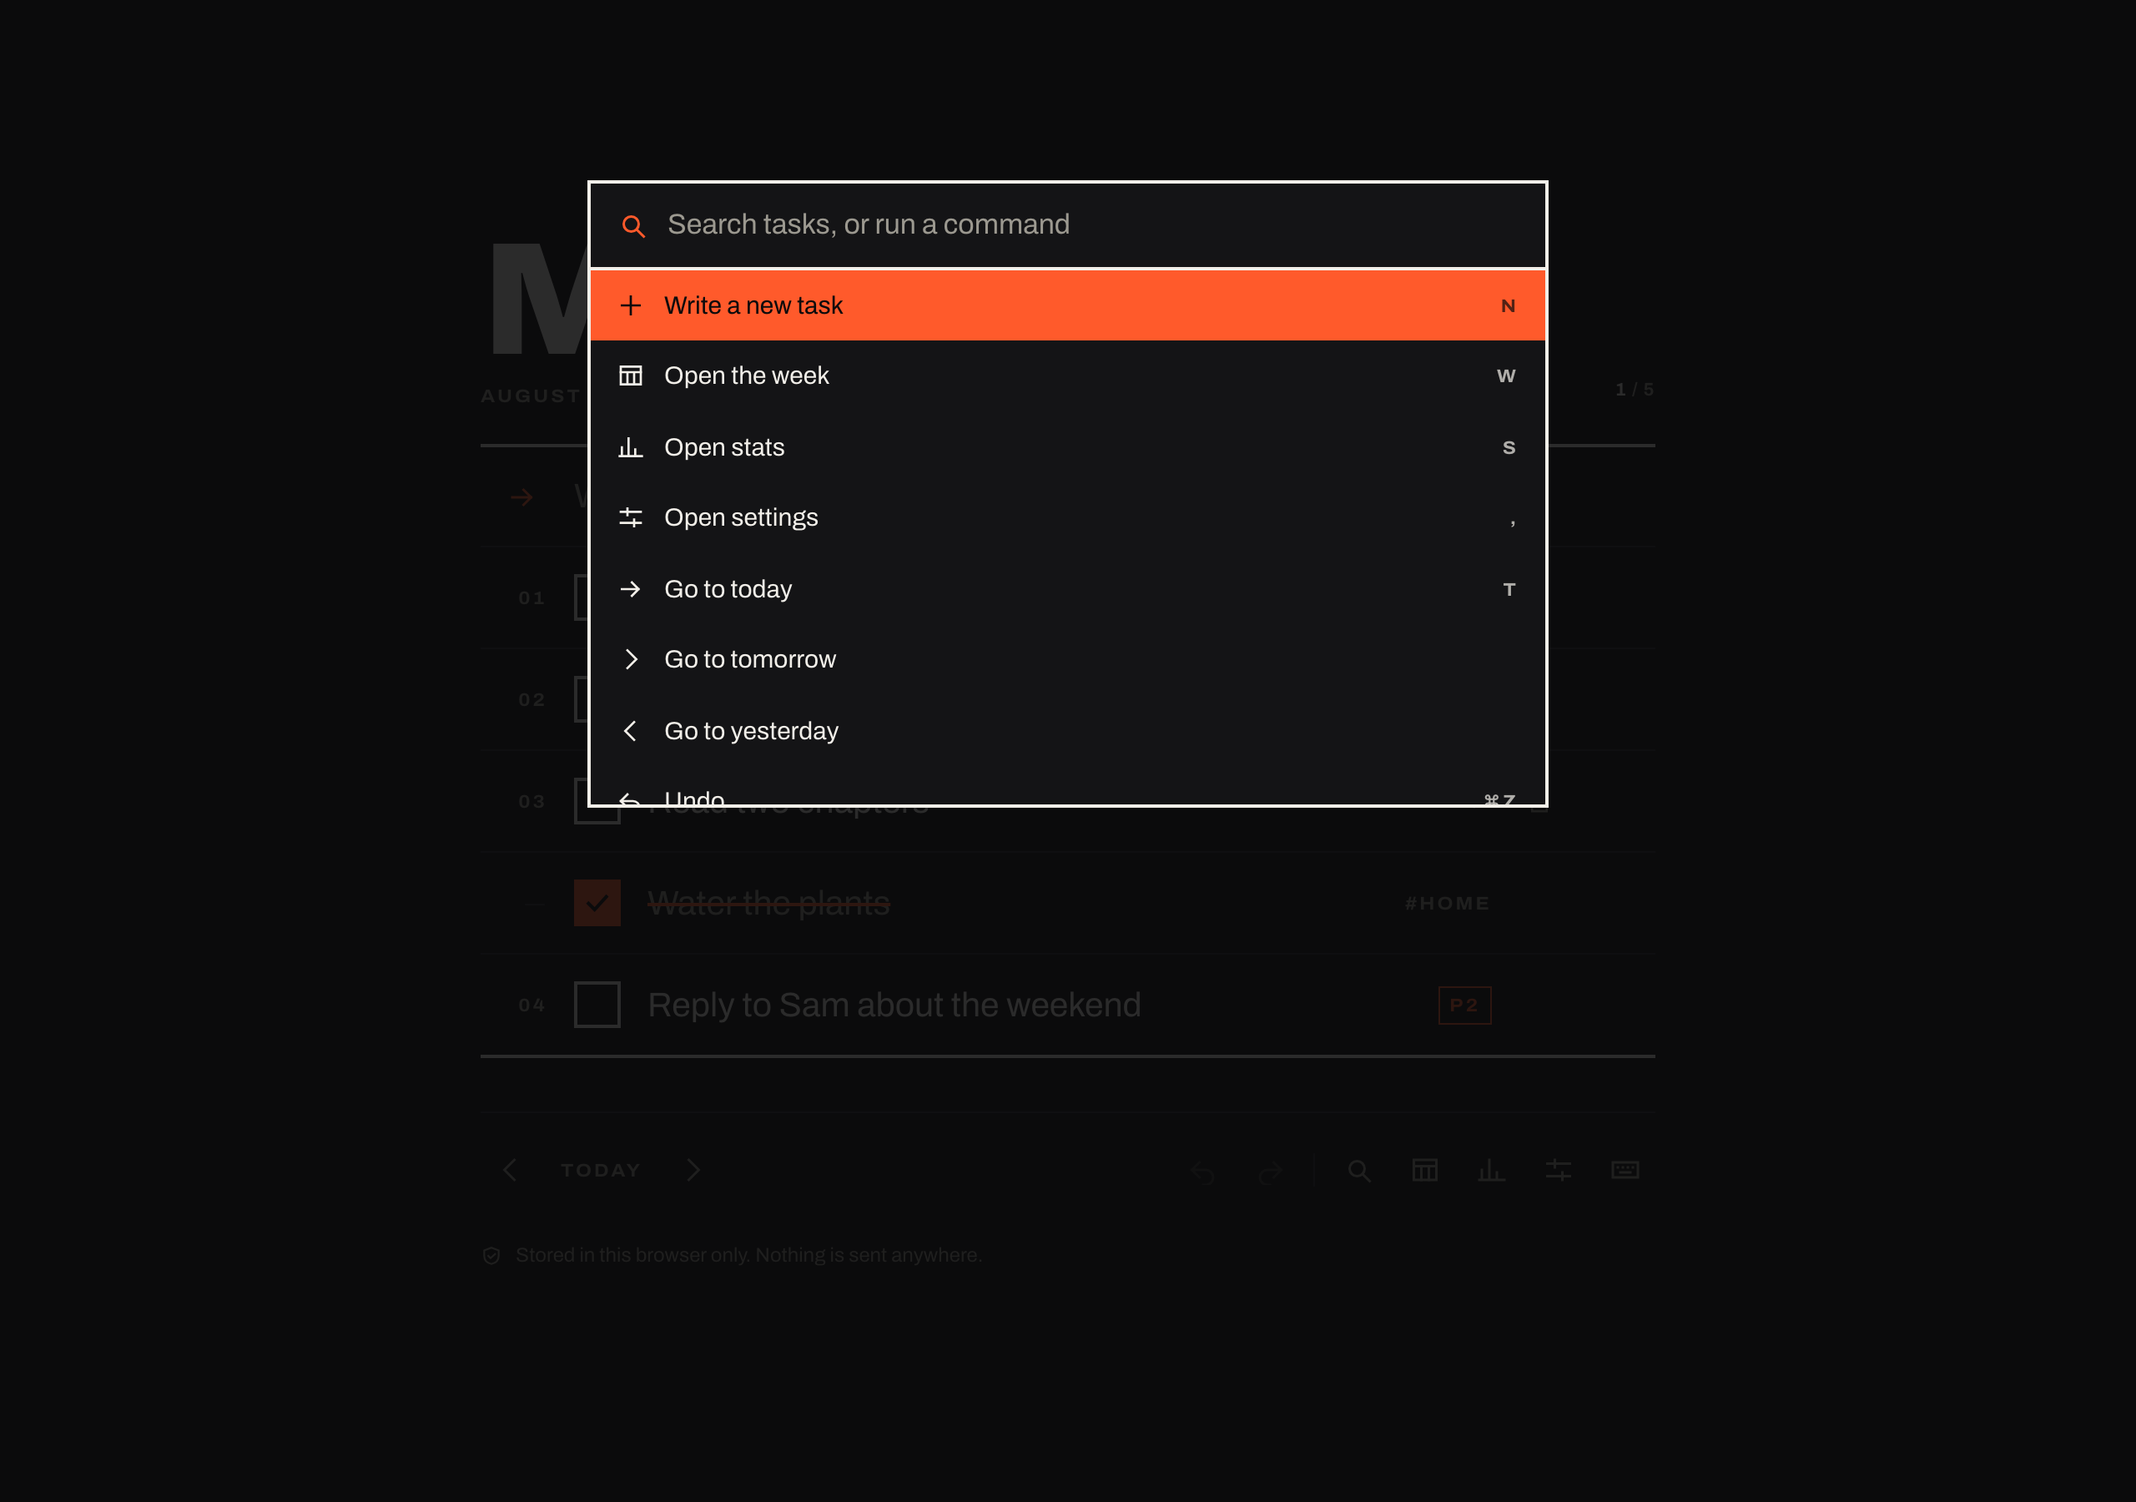
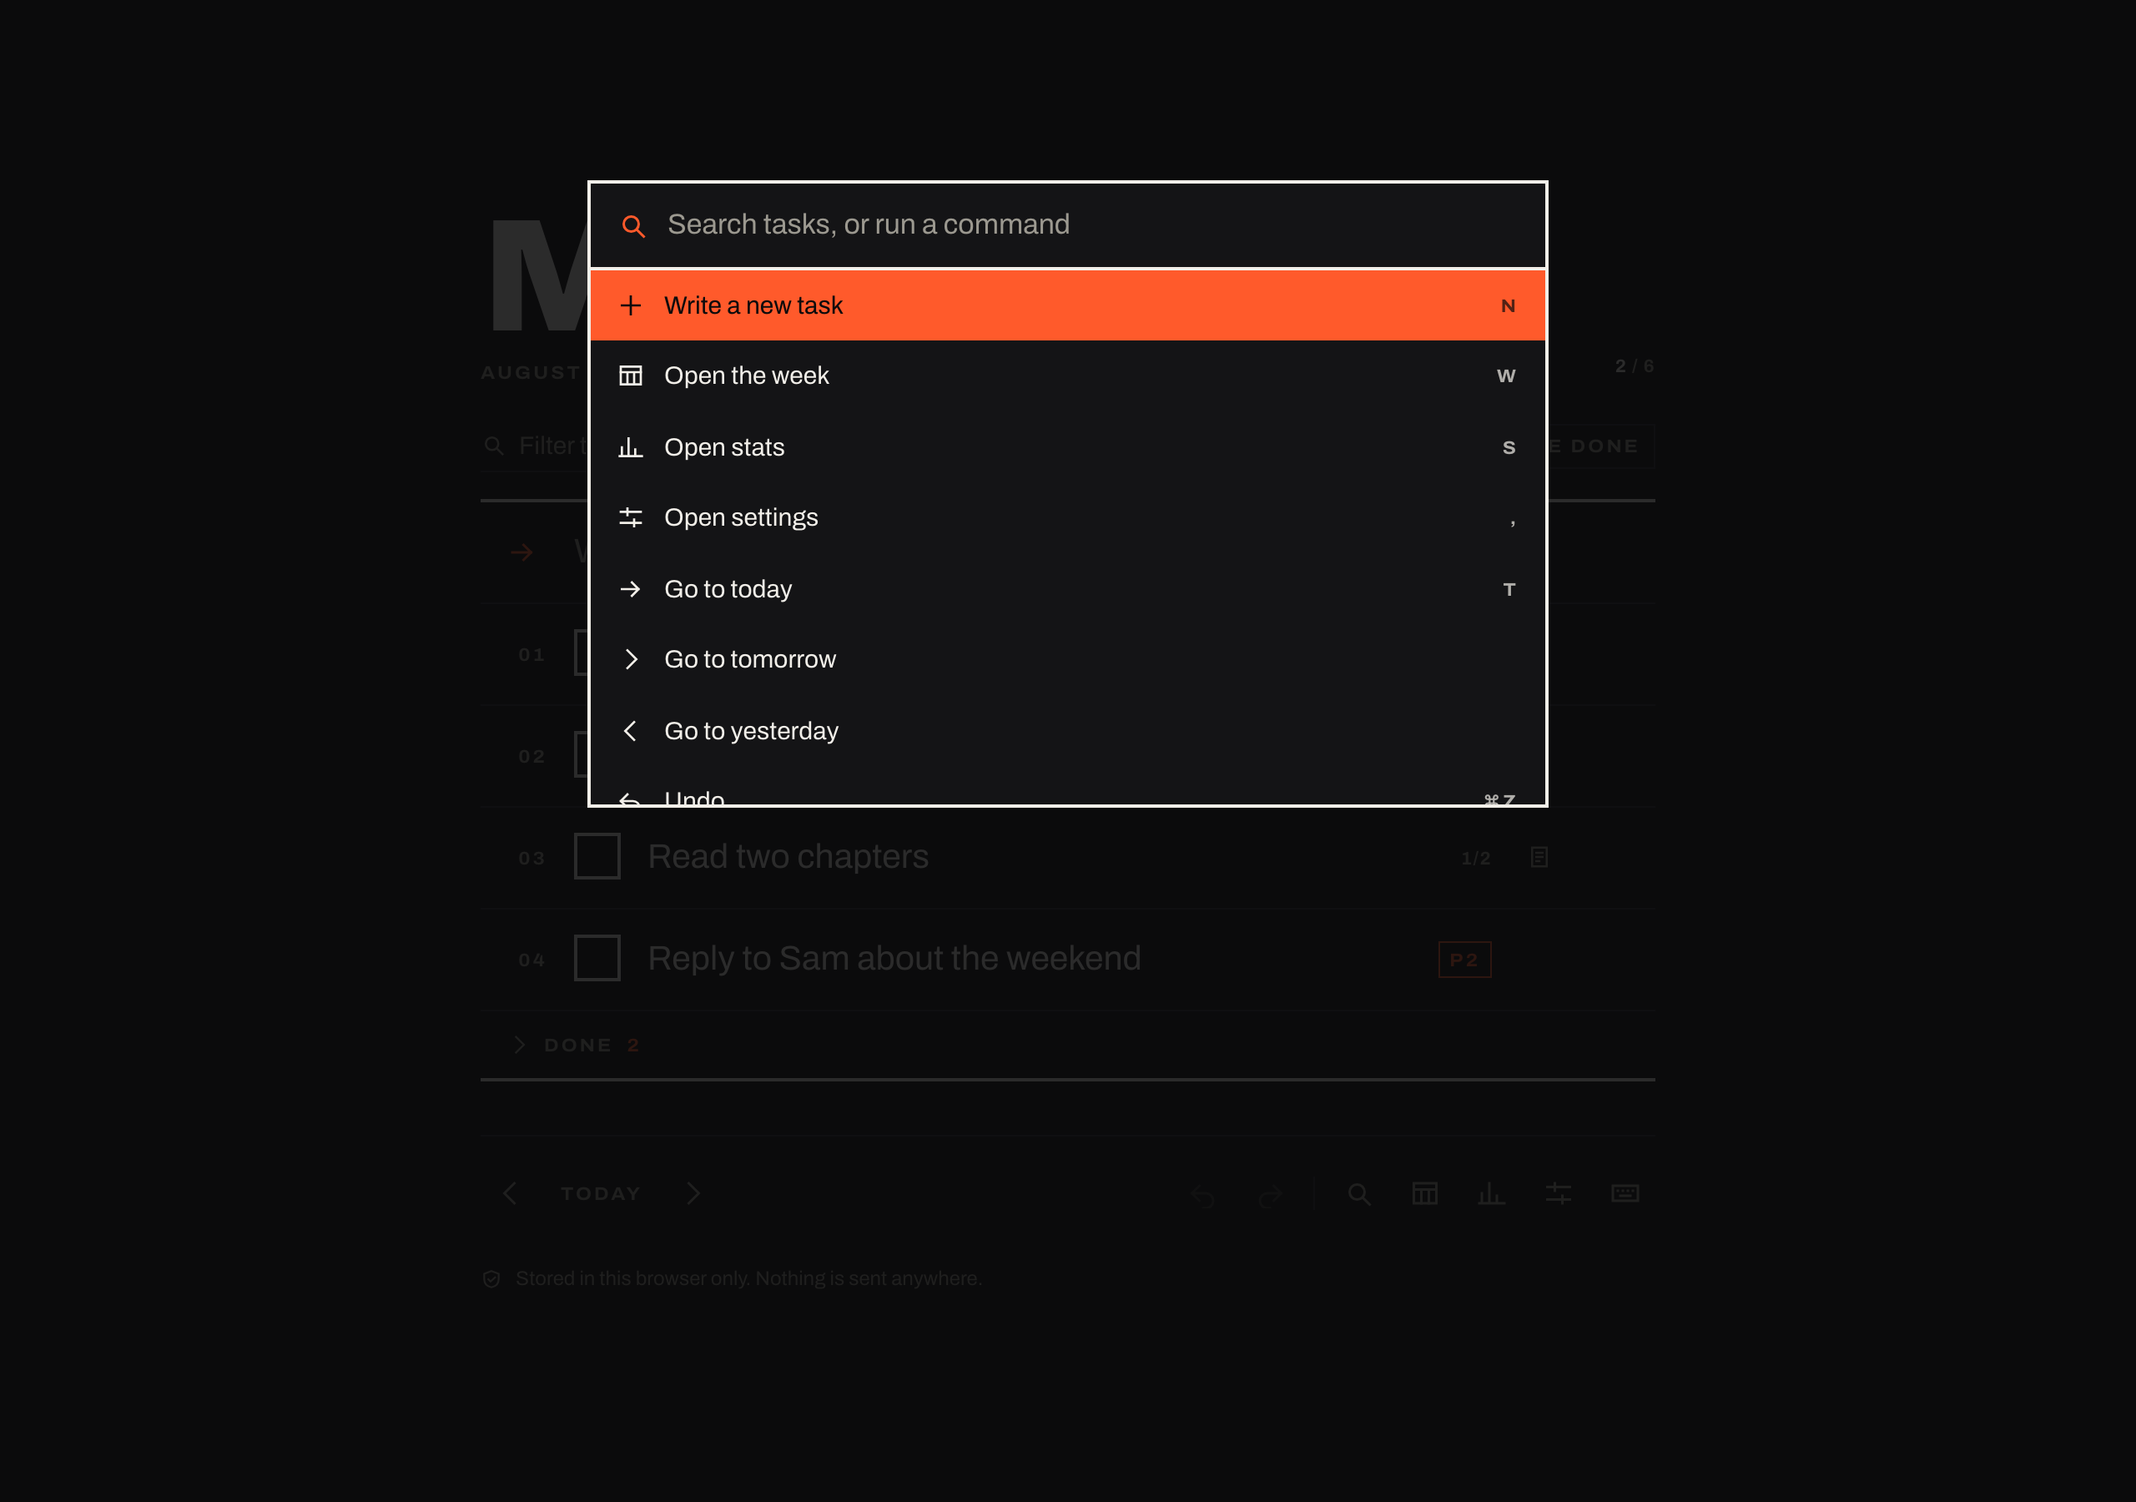
Completed tasks move to a Done drawer you can act on
A finished task leaves the list — the list is what is left to do, and a
day whose rows all sit there struck through does not read as finished.
It joins a Done drawer for that day, which opens itself once the day is
clear, and offers two ways out: put it back in the list, or delete the
record for good behind a confirmation.

The row lingers for the 420ms of the slat flip before it moves, or the
app's one authored moment would play on an element unmounting in the
same frame and completing something would read as the row vanishing.

Filters move below the date: they act on the board, and chrome above the
day put chrome above the subject.

Changed region(s): [[0.25, 0.56, 0.5312, 0.6844], [0.2188, 0.1244, 0.2812, 0.2489]]

diff --git a/src/features/today/TodayView.tsx b/src/features/today/TodayView.tsx
@@ -20,8 +20,13 @@ import { dayProgress, matchesFilters, tasksForDay, type Filters } from '../../do
 import { DayHeader } from './DayHeader'
 import { TaskRow } from './TaskRow'
 import { Capture, type CaptureHandle } from './Capture'
+import { FilterBar } from './FilterBar'
 import { CAPTURE_HINT_ID } from './hint'
 import { DayCleared, EmptyDay, FirstRun } from './EmptyStates'
+import { DoneDrawer } from './DoneDrawer'
+
+/** Matches the `flip` keyframe in `ui/tokens.css`. */
+const FLIP_MS = 420
 
 /**
  * The board. This is the app; everything else is an overlay over it.
@@ -34,11 +39,13 @@ export function TodayView({
   day,
   today,
   filters,
+  onFiltersChange,
   captureRef,
 }: {
   day: string
   today: string
   filters: Filters
+  onFiltersChange: (filters: Filters) => void
   captureRef: React.RefObject<CaptureHandle | null>
 }) {
   const state = useAppState()
@@ -53,16 +60,63 @@ export function TodayView({
   )
   const progress = useMemo(() => dayProgress(state, day), [state, day])
 
-  // Numbering runs over the open rows only, so completing one closes the gap
-  // instead of leaving a hole where a task used to be.
-  const positions = useMemo(() => {
-    const map = new Map<string, number>()
-    let next = 1
-    for (const task of visible) {
-      if (task.status !== 'done') map.set(task.id, next++)
-    }
-    return map
-  }, [visible])
+  // Completing a task takes it out of the list and into the drawer: the list is
+  // what is left to do, and a day whose rows are all still there, struck
+  // through, does not read as finished.
+  const open = useMemo(() => visible.filter((task) => task.status !== 'done'), [visible])
+  const done = useMemo(
+    () =>
+      visible
+        .filter((task) => task.status === 'done')
+        // Most recently finished first — that is the one you might undo.
+        .sort((a, b) => (b.completedAt ?? '').localeCompare(a.completedAt ?? '')),
+    [visible],
+  )
+
+  /**
+   * A completed row lingers in the list for exactly as long as the slat takes
+   * to turn over, then joins the drawer.
+   *
+   * Without this the flip — the one authored moment in the app — plays on an
+   * element that unmounts the same frame, so nobody ever sees it and completing
+   * a task reads as the row vanishing. Under `prefers-reduced-motion` there is
+   * no flip to wait for, and the delay would just feel like lag.
+   */
+  const [lingering, setLingering] = useState<ReadonlySet<string>>(new Set())
+  const previouslyOpen = useRef<Set<string>>(new Set())
+
+  useEffect(() => {
+    const openIds = new Set(open.map((task) => task.id))
+    const justCompleted = done
+      .filter((task) => previouslyOpen.current.has(task.id))
+      .map((task) => task.id)
+
+    previouslyOpen.current = openIds
+    if (justCompleted.length === 0) return
+
+    const linger = window.matchMedia('(prefers-reduced-motion: reduce)').matches ? 0 : FLIP_MS
+    setLingering((current) => new Set([...current, ...justCompleted]))
+
+    const timer = setTimeout(() => {
+      setLingering((current) => {
+        const next = new Set(current)
+        for (const id of justCompleted) next.delete(id)
+        return next
+      })
+    }, linger)
+
+    return () => clearTimeout(timer)
+  }, [open, done])
+
+  const listed = useMemo(
+    () =>
+      [...open, ...done.filter((task) => lingering.has(task.id))].sort((a, b) => a.order - b.order),
+    [open, done, lingering],
+  )
+
+  const drawered = useMemo(() => done.filter((task) => !lingering.has(task.id)), [done, lingering])
+
+  const positions = useMemo(() => new Map(open.map((task, index) => [task.id, index + 1])), [open])
 
   const sensors = useSensors(
     // A few pixels of slop so a click on a row never registers as a drag.
@@ -74,6 +128,8 @@ export function TodayView({
     setDragging(null)
     if (!over || active.id === over.id) return
 
+    // The index has to be taken against the whole day, not the open subset:
+    // `moveTask` positions against every task filed on that date.
     const toIndex = tasks.findIndex((task) => task.id === over.id)
     if (toIndex >= 0) {
       dispatch({ type: 'moveTask', id: String(active.id), toDay: day, toIndex })
@@ -92,6 +148,10 @@ export function TodayView({
     <section aria-label={`Tasks for ${day}`}>
       <DayHeader day={day} progress={progress} />
 
+      {/* Filters belong under the date, not above it: they act on the board, and
+          putting chrome above the day would put chrome above the subject. */}
+      <FilterBar filters={filters} onChange={onFiltersChange} taskCount={tasks.length} />
+
       <div className="border-y-2 border-rule-strong">
         {/* Capture opens the board: on a screen about one day, the first thing
             you meet is the way to say what the day is. */}
@@ -107,7 +167,7 @@ export function TodayView({
           </p>
         )}
 
-        {!progress.complete && visible.length > 0 && (
+        {listed.length > 0 && (
           <DndContext
             sensors={sensors}
             collisionDetection={closestCenter}
@@ -116,11 +176,11 @@ export function TodayView({
             onDragEnd={onDragEnd}
           >
             <SortableContext
-              items={visible.map((task) => task.id)}
+              items={listed.map((task) => task.id)}
               strategy={verticalListSortingStrategy}
             >
               <ul>
-                {visible.map((task) => (
+                {listed.map((task) => (
                   <TaskRow
                     key={task.id}
                     task={task}
@@ -145,6 +205,8 @@ export function TodayView({
             </DragOverlay>
           </DndContext>
         )}
+
+        <DoneDrawer tasks={drawered} today={today} complete={progress.complete} />
       </div>
 
       {/* The syntax lives at the foot of the board and only in the accessibility

diff --git a/src/features/today/DoneDrawer.tsx b/src/features/today/DoneDrawer.tsx
@@ -1,0 +1,132 @@
+import { useState } from 'react'
+import { useDispatch } from '../../store/context'
+import type { Task } from '../../domain/types'
+import { Icon } from '../../ui/Icon'
+import { TaskMeta } from './TaskMeta'
+
+/**
+ * What the day has already produced.
+ *
+ * Completing a task takes it out of the list — the list is what is left to do,
+ * and a finished day whose rows are all still sitting there struck through is
+ * not visibly finished. But taken out is not thrown away: everything done today
+ * collects here, in the order it was completed, and stays reachable.
+ *
+ * Two ways out, and they are deliberately different weights. **Put back**
+ * returns the task to the list, for the case where it was checked off too
+ * early or turned out not to be finished. **Delete** removes the record for
+ * good — it is the only destructive control on this screen, so it asks first
+ * rather than acting on a mis-tap next to Put back.
+ *
+ * The drawer opens itself when the day is complete: at that point what you did
+ * is the only content left, and hiding it behind a click would make the best
+ * moment of the day the emptiest screen.
+ */
+export function DoneDrawer({
+  tasks,
+  today,
+  complete,
+}: {
+  tasks: Task[]
+  today: string
+  complete: boolean
+}) {
+  const dispatch = useDispatch()
+  // `null` means "follow the day"; a boolean is the user overriding that.
+  const [override, setOverride] = useState<boolean | null>(null)
+  const [confirming, setConfirming] = useState<string | null>(null)
+
+  if (tasks.length === 0) return null
+
+  const open = override ?? complete
+
+  return (
+    <section aria-labelledby="done-heading" className="border-t border-rule">
+      <h2 id="done-heading">
+        <button
+          type="button"
+          aria-expanded={open}
+          onClick={() => {
+            setOverride(!open)
+            setConfirming(null)
+          }}
+          className="board-label flex w-full items-center gap-2 px-3 py-3 text-left text-ink-muted transition-colors hover:text-ink sm:px-4"
+        >
+          <span
+            aria-hidden="true"
+            className={`transition-transform duration-200 ${open ? 'rotate-0' : '-rotate-90'}`}
+          >
+            <Icon name="chevronDown" size={14} />
+          </span>
+          Done
+          <span className="board-quantity text-accent">{tasks.length}</span>
+        </button>
+      </h2>
+
+      {open && (
+        <ul className="animate-rise">
+          {tasks.map((task) => (
+            <li key={task.id} className="border-t border-rule">
+              <div className="flex flex-wrap items-center gap-x-4 gap-y-2 px-3 py-3 sm:px-4">
+                <span
+                  aria-hidden="true"
+                  className="flex size-5 shrink-0 items-center justify-center bg-accent text-accent-ink"
+                >
+                  <Icon name="check" size={12} strokeWidth={3} />
+                </span>
+
+                <span className="min-w-0 flex-1 text-row text-ink-muted line-through decoration-accent decoration-2">
+                  {task.title}
+                </span>
+
+                <TaskMeta task={task} today={today} />
+
+                {confirming === task.id ? (
+                  <div className="flex shrink-0 items-center gap-2">
+                    <button
+                      type="button"
+                      onClick={() => {
+                        dispatch({ type: 'deleteTask', id: task.id })
+                        setConfirming(null)
+                      }}
+                      className="board-label border-2 border-accent bg-accent px-3 py-1.5 text-accent-ink"
+                    >
+                      Delete for good
+                    </button>
+                    <button
+                      type="button"
+                      onClick={() => setConfirming(null)}
+                      className="board-label px-3 py-1.5 text-ink-muted hover:text-ink"
+                    >
+                      Keep
+                    </button>
+                  </div>
+                ) : (
+                  <div className="flex shrink-0 items-center gap-2">
+                    <button
+                      type="button"
+                      onClick={() =>
+                        dispatch({ type: 'toggleTask', id: task.id, now: new Date().toISOString() })
+                      }
+                      className="board-label border-2 border-rule px-3 py-1.5 text-ink transition-colors hover:border-rule-strong"
+                    >
+                      Put back
+                    </button>
+                    <button
+                      type="button"
+                      onClick={() => setConfirming(task.id)}
+                      aria-label={`Delete ${task.title} for good`}
+                      className="board-label px-3 py-1.5 text-ink-muted hover:text-accent"
+                    >
+                      Delete
+                    </button>
+                  </div>
+                )}
+              </div>
+            </li>
+          ))}
+        </ul>
+      )}
+    </section>
+  )
+}

diff --git a/src/App.tsx b/src/App.tsx
@@ -6,11 +6,10 @@ import { useRoute, navigate } from './app/router'
 import { useThemeEffect } from './app/theme'
 import { useShortcuts } from './app/shortcuts'
 import { needsTriage } from './domain/reducer'
-import { tasksForDay, noFilters, type Filters } from './domain/selectors'
+import { noFilters, type Filters } from './domain/selectors'
 import { addDays } from './lib/date'
 import { requestPersistence } from './lib/idb'
 import { TodayView } from './features/today/TodayView'
-import { FilterBar } from './features/today/FilterBar'
 import type { CaptureHandle } from './features/today/Capture'
 import { TriageTray } from './features/triage/TriageTray'
 import { WeekView } from './features/week/WeekView'
@@ -186,7 +185,6 @@ function Board() {
   if (route.name === 'settings') return <SettingsView today={today} />
 
   const showTriage = day === today && needsTriage(state, today)
-  const dayTaskCount = tasksForDay(state, day).length
 
   return (
     // `my-auto` rather than `justify-center`: a short day sits in the optical
@@ -197,9 +195,13 @@ function Board() {
       <div className="mx-auto my-auto w-full max-w-3xl px-5 py-10 sm:px-8 sm:py-14">
         {showTriage && <TriageTray today={today} />}
 
-        <FilterBar filters={filters} onChange={setFilters} taskCount={dayTaskCount} />
-
-        <TodayView day={day} today={today} filters={filters} captureRef={capture} />
+        <TodayView
+          day={day}
+          today={today}
+          filters={filters}
+          onFiltersChange={setFilters}
+          captureRef={capture}
+        />
 
         {/* Navigation lives under the board, not over it: on this screen the day
           is the subject and everything here is a way to leave it. */}

diff --git a/DESIGN.md b/DESIGN.md
@@ -83,7 +83,11 @@ rather than an hour and a half.
   drops beneath the title instead of competing for width — truncating a task to "F.." to fit a tag
   is never the right trade.
 - Row numbers count **open rows only**, so completing one closes the gap rather than leaving a
-  hole that reads like a missing task. A done row shows `—`: it has left the board.
+  hole that reads like a missing task.
+- A completed row **leaves the list** and joins the `Done` drawer at the foot of the board, which
+  opens itself once the day is clear. It lingers in the list for exactly the 420ms of the flip
+  first — otherwise the app's one authored moment plays on an element that unmounts the same frame,
+  and completing something reads as the row vanishing.
 
 ## Motion
 

diff --git a/README.md b/README.md
@@ -46,6 +46,9 @@ list. A task belongs to a day or it does not exist.
 - **Repeats.** Daily, chosen weekdays, or every N days/weeks. Instances appear as days are opened —
   switching one on today never invents a month of tasks you never saw.
 - **Week.** Seven days side by side. Drag anything onto another day.
+- **Finished work stays reachable.** Completing a task takes it out of the list — the list is what is
+  left to do — and into a **Done** drawer for that day. From there you can put it back, or delete it
+  for good.
 - **Undo and redo** on everything, including triage and drag.
 - **Keyboard first.** `⌘K` for commands and search, `?` for the full map.
 - **Stats.** Weekly completion, streak, lifetime totals.
